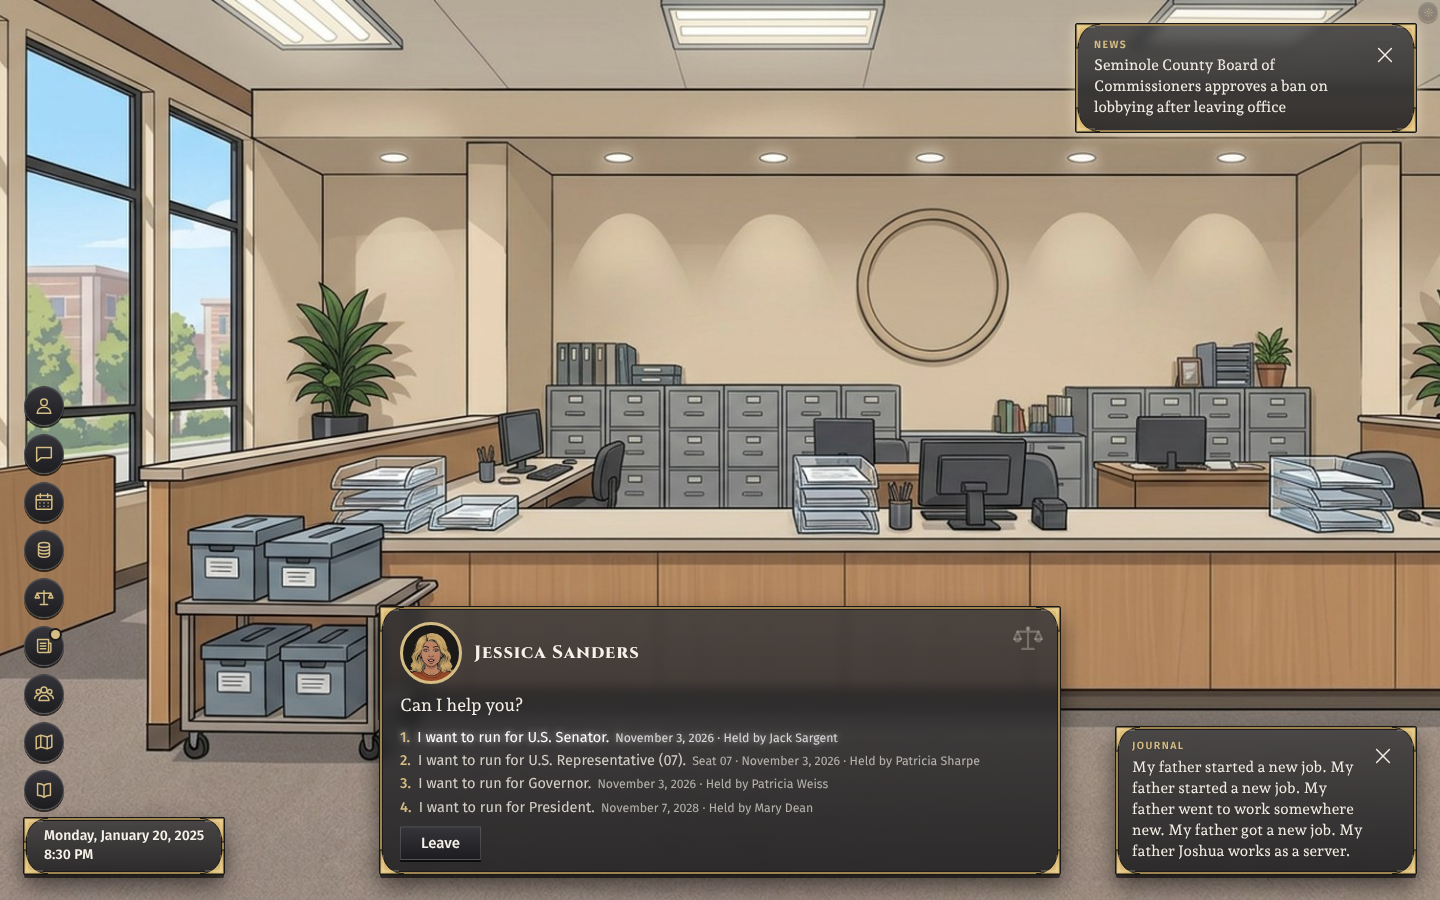
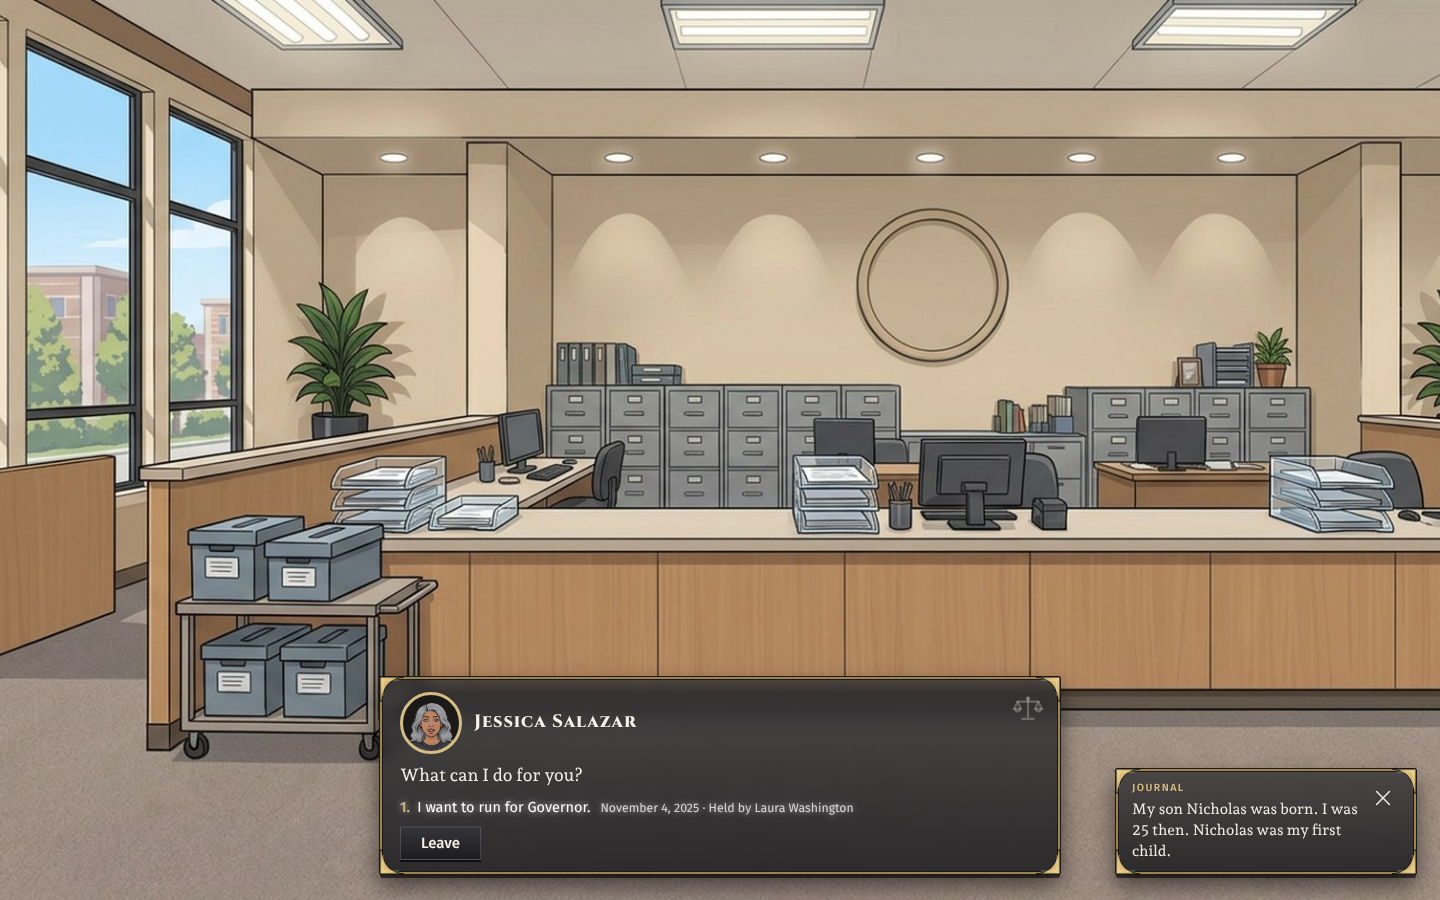
play-filing-petition-on-screen: the counter and Campaign show the petition (#8466)
* play-filing-petition-on-screen: start the branch with its release note

* Filing shows its petition: the count and deadline at the counter, signatures held and the clerk's count on the campaign screen

Pool item: play-filing-petition-on-screen

Claude-Session: https://claude.ai/code/session_01S4WSHsnvuxXM4YiPxR8XyL

* seen: petition line at the counter, Farmington, Maine, seed 311eff4f

Claude-Session: https://claude.ai/code/session_01S4WSHty1ex3AkJEAvJVd6u

---------

diff --git a/src/bench/campaign.ts b/src/bench/campaign.ts
@@ -22,6 +22,7 @@ import {
   type CandidateStanding,
   type CampaignDayKind,
 } from "../core2/campaign-day";
+import { petitionOf } from "../core2/modules/elections";
 import type { ContestRow, FilingRow } from "../core2/modules/elections";
 import type { CoreAPI, CoreState, PersonId } from "../core2/types";
 import { dwellingKind } from "../core2/modules/housing";
@@ -52,6 +53,29 @@ import scenePlaces from "./data/scene-places.json" with { type: "json" };
 const POLL_SAMPLE = campaignParameter("pollSampleSize");
 
 const ELECTIONS = "core2-elections-v1";
+
+/**
+ * A filing's petition as the screens show it, read from the petition record
+ * (the signatures the clerk will count, the last day, the signatures held and,
+ * once the clerk has checked it, the verdict). Null for a filing with none.
+ */
+export function petitionView(api: CoreAPI, filingId: string) {
+  const petition = petitionOf(api, filingId);
+  if (!petition) return null;
+  return {
+    id: petition.id,
+    needed: petition.needed,
+    due: petition.due,
+    signed: petition.signed,
+    check: petition.check
+      ? {
+          on: petition.check.on,
+          valid: petition.check.valid,
+          struck: petition.check.struckIds.length,
+        }
+      : null,
+  };
+}
 const CAMPAIGNS = "core2-campaigns-v1";
 
 /** The campaign day's acts that open as a scene, by the name the screen's control carries. */
@@ -125,6 +149,7 @@ export function campaignView(core: CoreState, personId: string) {
           ).length,
         },
         polls: polls.slice(-3),
+        petition: petitionView(api, filing.id),
         // What the contest turns on: each candidate's acts and how the people they reached came to feel.
         causes,
         // The sample a poll asks, so the screen's Poll button and the price below agree.

diff --git a/src/bench/filing.ts b/src/bench/filing.ts
@@ -31,6 +31,7 @@ import { fileForOffice } from "./government";
 import { hasBackdrop } from "./backdrop-places";
 import scenePlaces from "./data/scene-places.json" with { type: "json" };
 import type { CoreState } from "../core2/types";
+import { petitionView } from "./campaign";
 
 /** The picture for the office that takes a contest's filings. */
 export function officePlace(filedWith: string): string {
@@ -301,7 +302,15 @@ export function chooseAtCounter(
     // What the petition asks is the clerk's next scene, staged from the
     // filing's record by the director (the `filing` situation type), so the
     // clerk says it once.
-    return { ...state, visit: { ...state.visit, choices: [] }, result };
+    const made = (result as { filing?: { id: string } }).filing;
+    return {
+      ...state,
+      visit: { ...state.visit, choices: [] },
+      result: {
+        ...result,
+        petition: made ? petitionView(api, made.id) : null,
+      },
+    };
   }
   return { ...state, visit: { ...state.visit, choices: [] } };
 }

diff --git a/docs/release/changes/play-filing-petition-on-screen.md b/docs/release/changes/play-filing-petition-on-screen.md
@@ -1,0 +1,8 @@
+---
+id: play-filing-petition-on-screen
+impact: patch
+section: Improved
+title: Filing shows its petition
+---
+
+When you file for an office that asks for signatures, the counter now says how many the clerk will count and the last day to hand them in. Your campaign screen shows the signatures you hold against that number, and the clerk's count once it has checked.
